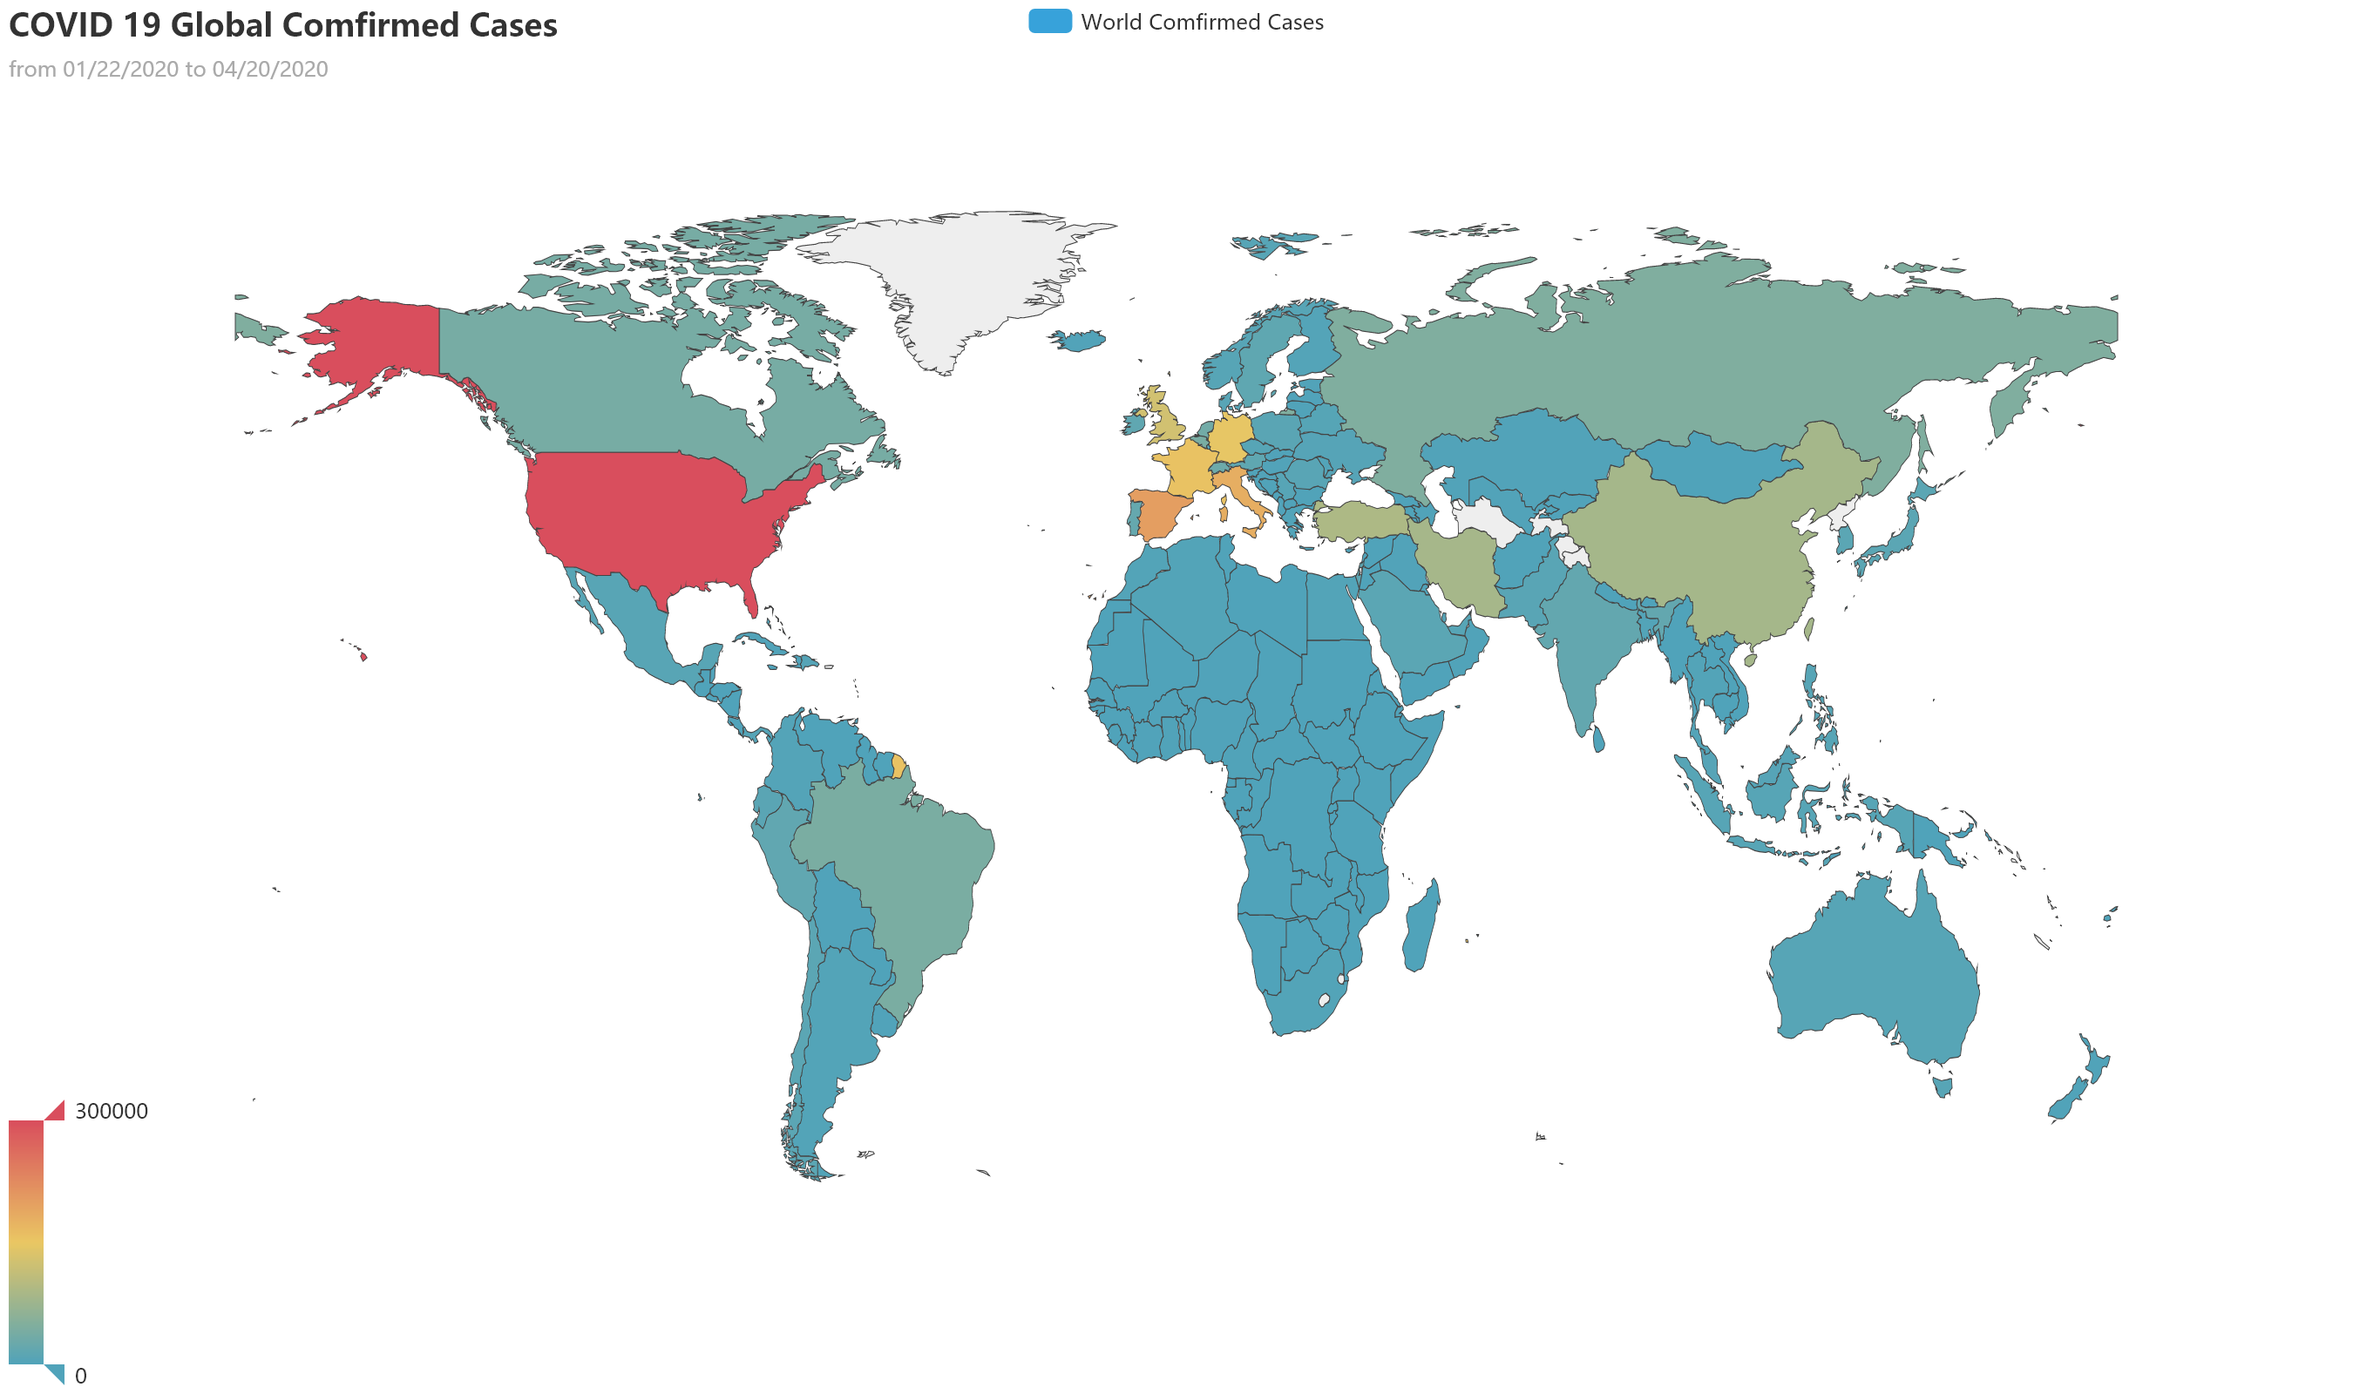
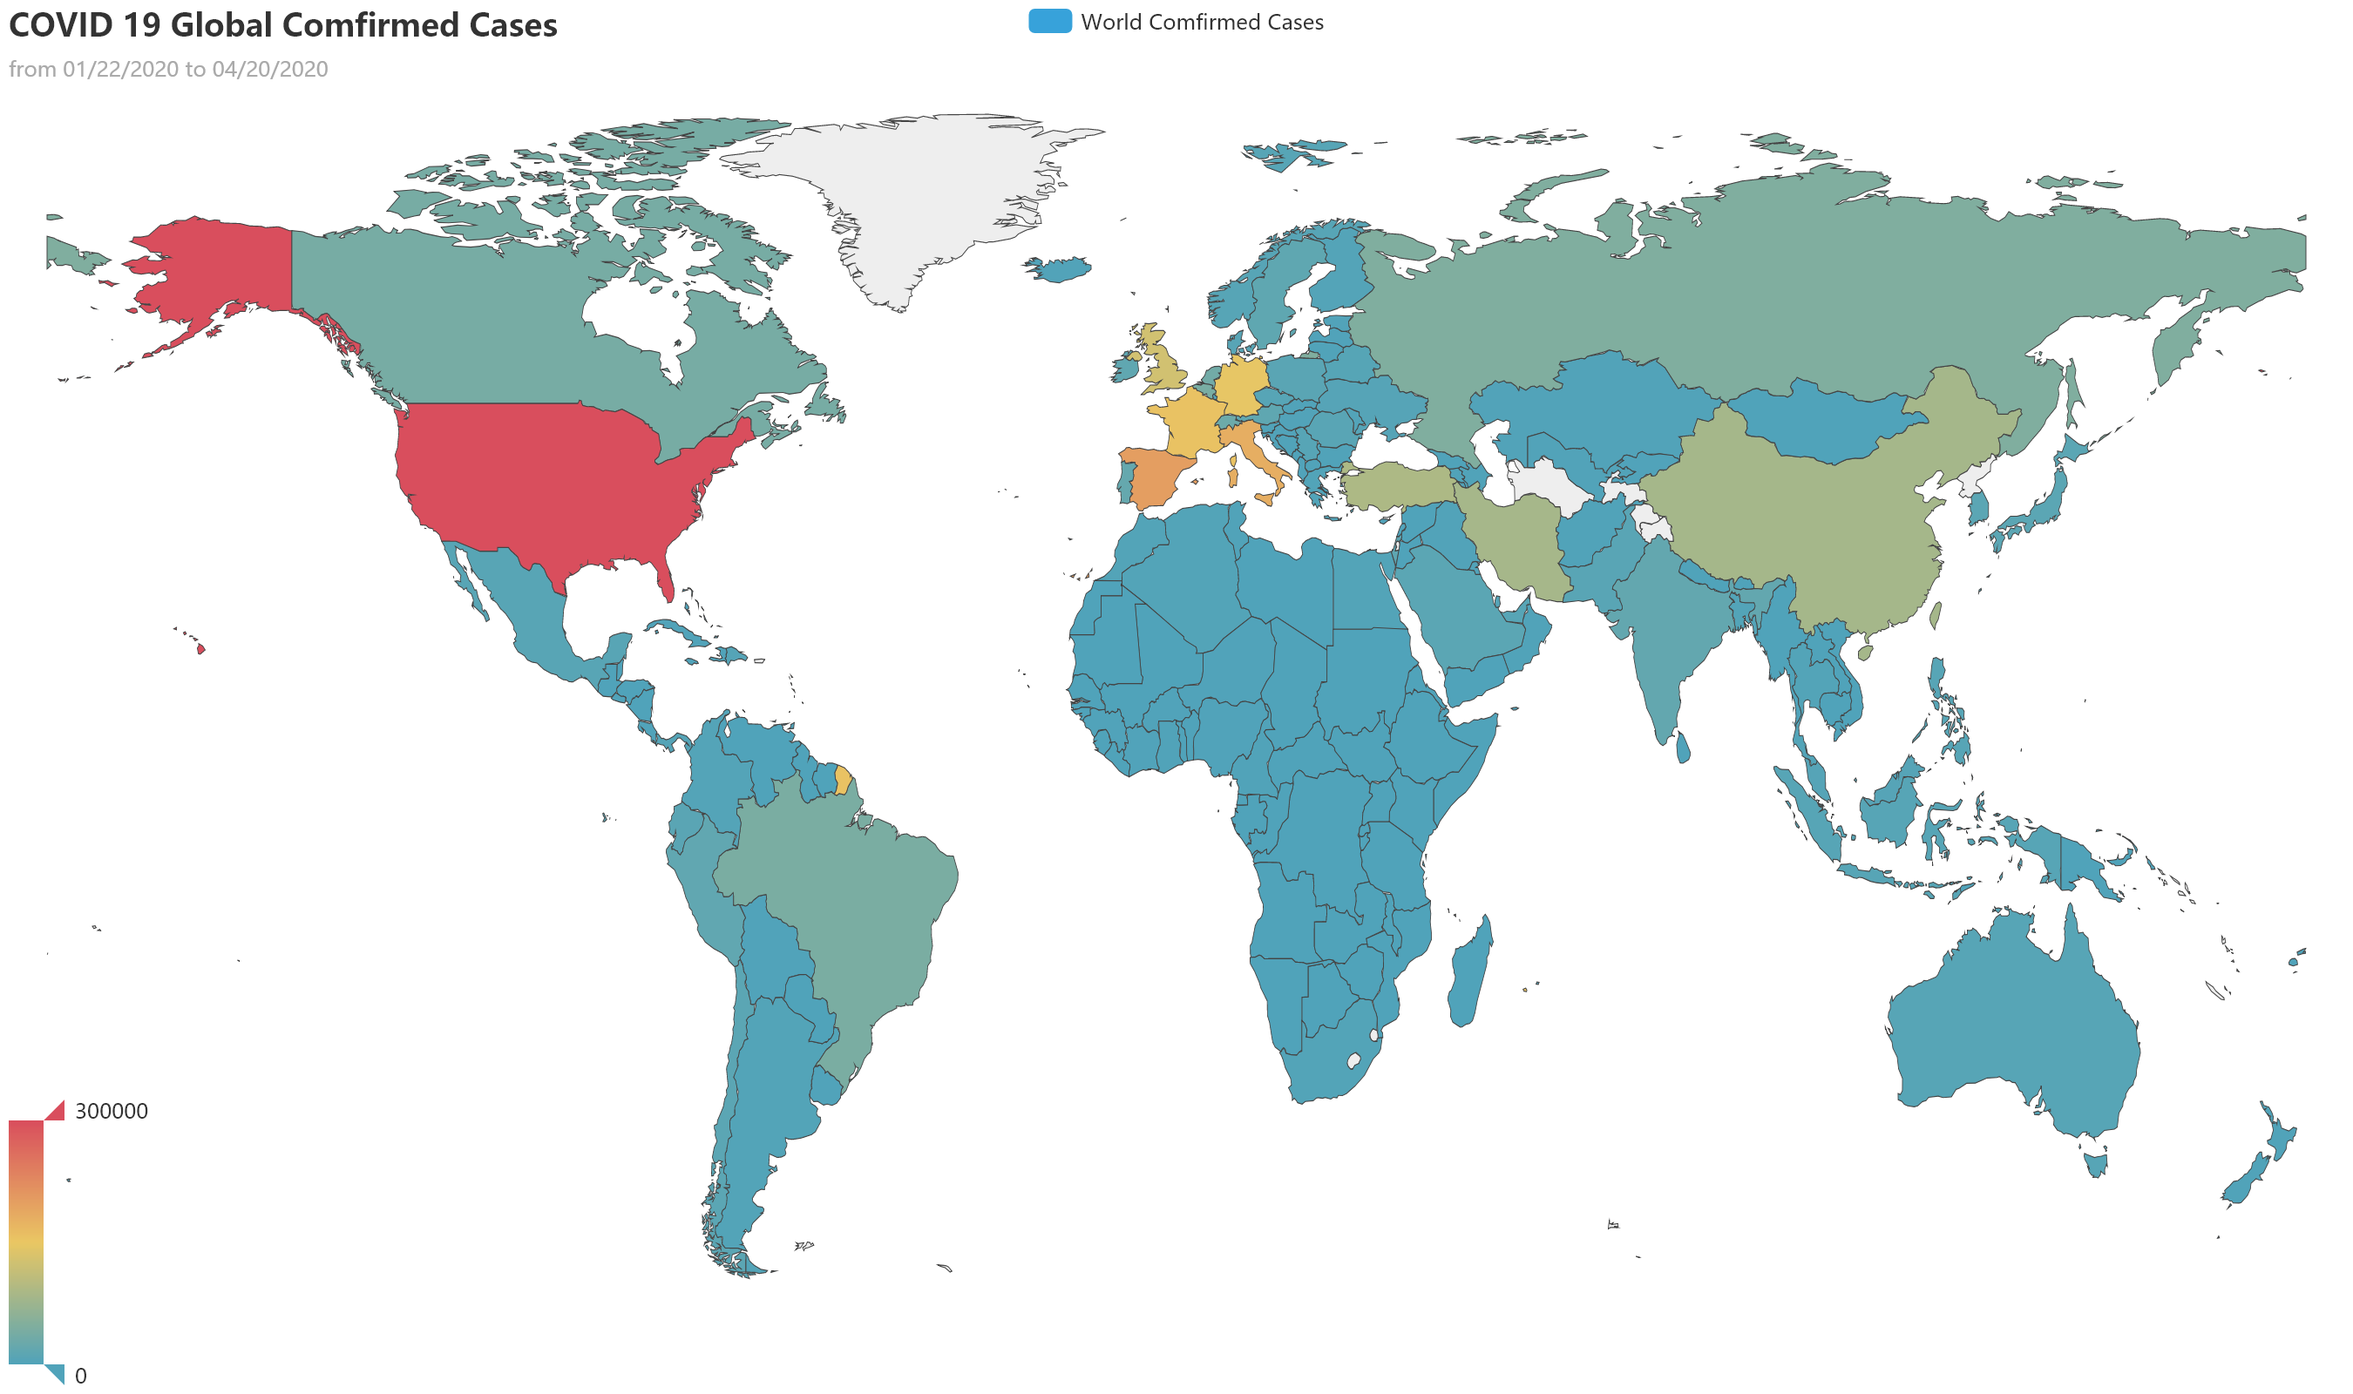
Updated Images

diff --git a/Images/COVID-19-global-Comfirmed-cases.html b/Images/COVID-19-global-Comfirmed-cases.html
@@ -8,11 +8,11 @@
 
 </head>
 <body>
-    <div id="d3db89f750de4b308ff196a113e8216c" class="chart-container" style="width:1350px; height:800px;"></div>
+    <div id="f17523b242b04cfebf04cb2e272e6518" class="chart-container" style="width:1350px; height:800px;"></div>
     <script>
-        var chart_d3db89f750de4b308ff196a113e8216c = echarts.init(
-            document.getElementById('d3db89f750de4b308ff196a113e8216c'), 'light', {renderer: 'canvas'});
-        var option_d3db89f750de4b308ff196a113e8216c = {
+        var chart_f17523b242b04cfebf04cb2e272e6518 = echarts.init(
+            document.getElementById('f17523b242b04cfebf04cb2e272e6518'), 'light', {renderer: 'canvas'});
+        var option_f17523b242b04cfebf04cb2e272e6518 = {
     "animation": true,
     "animationThreshold": 2000,
     "animationDuration": 1000,
@@ -782,7 +782,7 @@
                 }
             ],
             "roam": true,
-            "zoom": 1,
+            "zoom": 1.2,
             "showLegendSymbol": false,
             "emphasis": {},
             "rippleEffect": {
@@ -846,7 +846,7 @@
         "itemHeight": 140
     }
 };
-        chart_d3db89f750de4b308ff196a113e8216c.setOption(option_d3db89f750de4b308ff196a113e8216c);
+        chart_f17523b242b04cfebf04cb2e272e6518.setOption(option_f17523b242b04cfebf04cb2e272e6518);
     </script>
 </body>
 </html>

diff --git a/Images/COVID-19-global-Deaths-cases.html b/Images/COVID-19-global-Deaths-cases.html
@@ -8,11 +8,11 @@
 
 </head>
 <body>
-    <div id="dcbd9af174d3471f8e55a7df2b44d908" class="chart-container" style="width:1350px; height:800px;"></div>
+    <div id="a2e5ae604b264693971bddd763722878" class="chart-container" style="width:1350px; height:800px;"></div>
     <script>
-        var chart_dcbd9af174d3471f8e55a7df2b44d908 = echarts.init(
-            document.getElementById('dcbd9af174d3471f8e55a7df2b44d908'), 'light', {renderer: 'canvas'});
-        var option_dcbd9af174d3471f8e55a7df2b44d908 = {
+        var chart_a2e5ae604b264693971bddd763722878 = echarts.init(
+            document.getElementById('a2e5ae604b264693971bddd763722878'), 'light', {renderer: 'canvas'});
+        var option_a2e5ae604b264693971bddd763722878 = {
     "animation": true,
     "animationThreshold": 2000,
     "animationDuration": 1000,
@@ -782,7 +782,7 @@
                 }
             ],
             "roam": true,
-            "zoom": 1,
+            "zoom": 1.2,
             "showLegendSymbol": false,
             "emphasis": {},
             "rippleEffect": {
@@ -846,7 +846,7 @@
         "itemHeight": 140
     }
 };
-        chart_dcbd9af174d3471f8e55a7df2b44d908.setOption(option_dcbd9af174d3471f8e55a7df2b44d908);
+        chart_a2e5ae604b264693971bddd763722878.setOption(option_a2e5ae604b264693971bddd763722878);
     </script>
 </body>
 </html>

diff --git a/Images/COVID-19-global-Recovered-cases.html b/Images/COVID-19-global-Recovered-cases.html
@@ -8,11 +8,11 @@
 
 </head>
 <body>
-    <div id="d1a647ad162d4bf5a6ec3da5aad13c83" class="chart-container" style="width:1350px; height:800px;"></div>
+    <div id="6f3dbe8d2a4d46929a01635b8e3b1733" class="chart-container" style="width:1350px; height:800px;"></div>
     <script>
-        var chart_d1a647ad162d4bf5a6ec3da5aad13c83 = echarts.init(
-            document.getElementById('d1a647ad162d4bf5a6ec3da5aad13c83'), 'light', {renderer: 'canvas'});
-        var option_d1a647ad162d4bf5a6ec3da5aad13c83 = {
+        var chart_6f3dbe8d2a4d46929a01635b8e3b1733 = echarts.init(
+            document.getElementById('6f3dbe8d2a4d46929a01635b8e3b1733'), 'light', {renderer: 'canvas'});
+        var option_6f3dbe8d2a4d46929a01635b8e3b1733 = {
     "animation": true,
     "animationThreshold": 2000,
     "animationDuration": 1000,
@@ -782,7 +782,7 @@
                 }
             ],
             "roam": true,
-            "zoom": 1,
+            "zoom": 1.2,
             "showLegendSymbol": false,
             "emphasis": {},
             "rippleEffect": {
@@ -846,7 +846,7 @@
         "itemHeight": 140
     }
 };
-        chart_d1a647ad162d4bf5a6ec3da5aad13c83.setOption(option_d1a647ad162d4bf5a6ec3da5aad13c83);
+        chart_6f3dbe8d2a4d46929a01635b8e3b1733.setOption(option_6f3dbe8d2a4d46929a01635b8e3b1733);
     </script>
 </body>
 </html>

diff --git a/Images/Australia-trend.html b/Images/Australia-trend.html
@@ -7,11 +7,11 @@
 
 </head>
 <body>
-    <div id="745a1284d72a43858fd11b957d4bad6b" class="chart-container" style="width:1350px; height:800px;"></div>
+    <div id="7ddab3b2679946fcaa10d4ccdb0e0f01" class="chart-container" style="width:1350px; height:800px;"></div>
     <script>
-        var chart_745a1284d72a43858fd11b957d4bad6b = echarts.init(
-            document.getElementById('745a1284d72a43858fd11b957d4bad6b'), 'light', {renderer: 'canvas'});
-        var option_745a1284d72a43858fd11b957d4bad6b = {
+        var chart_7ddab3b2679946fcaa10d4ccdb0e0f01 = echarts.init(
+            document.getElementById('7ddab3b2679946fcaa10d4ccdb0e0f01'), 'light', {renderer: 'canvas'});
+        var option_7ddab3b2679946fcaa10d4ccdb0e0f01 = {
     "animation": true,
     "animationThreshold": 2000,
     "animationDuration": 1000,
@@ -2096,7 +2096,7 @@
         }
     ]
 };
-        chart_745a1284d72a43858fd11b957d4bad6b.setOption(option_745a1284d72a43858fd11b957d4bad6b);
+        chart_7ddab3b2679946fcaa10d4ccdb0e0f01.setOption(option_7ddab3b2679946fcaa10d4ccdb0e0f01);
     </script>
 </body>
 </html>

diff --git a/Images/France-trend.html b/Images/France-trend.html
@@ -7,11 +7,11 @@
 
 </head>
 <body>
-    <div id="752eac34aa6b4c138c85264dc69d06a0" class="chart-container" style="width:1350px; height:800px;"></div>
+    <div id="8981c98979e64dc18fe7e76a44498d65" class="chart-container" style="width:1350px; height:800px;"></div>
     <script>
-        var chart_752eac34aa6b4c138c85264dc69d06a0 = echarts.init(
-            document.getElementById('752eac34aa6b4c138c85264dc69d06a0'), 'light', {renderer: 'canvas'});
-        var option_752eac34aa6b4c138c85264dc69d06a0 = {
+        var chart_8981c98979e64dc18fe7e76a44498d65 = echarts.init(
+            document.getElementById('8981c98979e64dc18fe7e76a44498d65'), 'light', {renderer: 'canvas'});
+        var option_8981c98979e64dc18fe7e76a44498d65 = {
     "animation": true,
     "animationThreshold": 2000,
     "animationDuration": 1000,
@@ -2096,7 +2096,7 @@
         }
     ]
 };
-        chart_752eac34aa6b4c138c85264dc69d06a0.setOption(option_752eac34aa6b4c138c85264dc69d06a0);
+        chart_8981c98979e64dc18fe7e76a44498d65.setOption(option_8981c98979e64dc18fe7e76a44498d65);
     </script>
 </body>
 </html>

diff --git a/Images/Hong Kong-trend.html b/Images/Hong Kong-trend.html
@@ -7,11 +7,11 @@
 
 </head>
 <body>
-    <div id="9602d7a61f7343619405ebfb3b9055b9" class="chart-container" style="width:1350px; height:800px;"></div>
+    <div id="1da2b279419a4c9ba998371e2909ecf5" class="chart-container" style="width:1350px; height:800px;"></div>
     <script>
-        var chart_9602d7a61f7343619405ebfb3b9055b9 = echarts.init(
-            document.getElementById('9602d7a61f7343619405ebfb3b9055b9'), 'light', {renderer: 'canvas'});
-        var option_9602d7a61f7343619405ebfb3b9055b9 = {
+        var chart_1da2b279419a4c9ba998371e2909ecf5 = echarts.init(
+            document.getElementById('1da2b279419a4c9ba998371e2909ecf5'), 'light', {renderer: 'canvas'});
+        var option_1da2b279419a4c9ba998371e2909ecf5 = {
     "animation": true,
     "animationThreshold": 2000,
     "animationDuration": 1000,
@@ -2138,7 +2138,7 @@
         }
     ]
 };
-        chart_9602d7a61f7343619405ebfb3b9055b9.setOption(option_9602d7a61f7343619405ebfb3b9055b9);
+        chart_1da2b279419a4c9ba998371e2909ecf5.setOption(option_1da2b279419a4c9ba998371e2909ecf5);
     </script>
 </body>
 </html>

diff --git a/Images/India-trend.html b/Images/India-trend.html
@@ -7,11 +7,11 @@
 
 </head>
 <body>
-    <div id="a9ee309d1ccc4444be3a04eade90b23c" class="chart-container" style="width:1350px; height:800px;"></div>
+    <div id="6db703a93efe4e86b9a8d3c0b58d9d5b" class="chart-container" style="width:1350px; height:800px;"></div>
     <script>
-        var chart_a9ee309d1ccc4444be3a04eade90b23c = echarts.init(
-            document.getElementById('a9ee309d1ccc4444be3a04eade90b23c'), 'light', {renderer: 'canvas'});
-        var option_a9ee309d1ccc4444be3a04eade90b23c = {
+        var chart_6db703a93efe4e86b9a8d3c0b58d9d5b = echarts.init(
+            document.getElementById('6db703a93efe4e86b9a8d3c0b58d9d5b'), 'light', {renderer: 'canvas'});
+        var option_6db703a93efe4e86b9a8d3c0b58d9d5b = {
     "animation": true,
     "animationThreshold": 2000,
     "animationDuration": 1000,
@@ -1970,7 +1970,7 @@
         }
     ]
 };
-        chart_a9ee309d1ccc4444be3a04eade90b23c.setOption(option_a9ee309d1ccc4444be3a04eade90b23c);
+        chart_6db703a93efe4e86b9a8d3c0b58d9d5b.setOption(option_6db703a93efe4e86b9a8d3c0b58d9d5b);
     </script>
 </body>
 </html>

diff --git a/Images/Italy-trend.html b/Images/Italy-trend.html
@@ -7,11 +7,11 @@
 
 </head>
 <body>
-    <div id="dc9937cc31124b349dd2ec824e8ee485" class="chart-container" style="width:1350px; height:800px;"></div>
+    <div id="ede718bfc6674fc3b7dfd5a16d08d330" class="chart-container" style="width:1350px; height:800px;"></div>
     <script>
-        var chart_dc9937cc31124b349dd2ec824e8ee485 = echarts.init(
-            document.getElementById('dc9937cc31124b349dd2ec824e8ee485'), 'light', {renderer: 'canvas'});
-        var option_dc9937cc31124b349dd2ec824e8ee485 = {
+        var chart_ede718bfc6674fc3b7dfd5a16d08d330 = echarts.init(
+            document.getElementById('ede718bfc6674fc3b7dfd5a16d08d330'), 'light', {renderer: 'canvas'});
+        var option_ede718bfc6674fc3b7dfd5a16d08d330 = {
     "animation": true,
     "animationThreshold": 2000,
     "animationDuration": 1000,
@@ -1949,7 +1949,7 @@
         }
     ]
 };
-        chart_dc9937cc31124b349dd2ec824e8ee485.setOption(option_dc9937cc31124b349dd2ec824e8ee485);
+        chart_ede718bfc6674fc3b7dfd5a16d08d330.setOption(option_ede718bfc6674fc3b7dfd5a16d08d330);
     </script>
 </body>
 </html>

diff --git a/Images/Japan-trend.html b/Images/Japan-trend.html
@@ -7,11 +7,11 @@
 
 </head>
 <body>
-    <div id="374ad31cae5a4323a5fe0877ad2a932b" class="chart-container" style="width:1350px; height:800px;"></div>
+    <div id="41d4ec6714454db083f1739b740e5a5c" class="chart-container" style="width:1350px; height:800px;"></div>
     <script>
-        var chart_374ad31cae5a4323a5fe0877ad2a932b = echarts.init(
-            document.getElementById('374ad31cae5a4323a5fe0877ad2a932b'), 'light', {renderer: 'canvas'});
-        var option_374ad31cae5a4323a5fe0877ad2a932b = {
+        var chart_41d4ec6714454db083f1739b740e5a5c = echarts.init(
+            document.getElementById('41d4ec6714454db083f1739b740e5a5c'), 'light', {renderer: 'canvas'});
+        var option_41d4ec6714454db083f1739b740e5a5c = {
     "animation": true,
     "animationThreshold": 2000,
     "animationDuration": 1000,
@@ -2138,7 +2138,7 @@
         }
     ]
 };
-        chart_374ad31cae5a4323a5fe0877ad2a932b.setOption(option_374ad31cae5a4323a5fe0877ad2a932b);
+        chart_41d4ec6714454db083f1739b740e5a5c.setOption(option_41d4ec6714454db083f1739b740e5a5c);
     </script>
 </body>
 </html>

diff --git a/Images/Mainland China-trend.html b/Images/Mainland China-trend.html
@@ -7,11 +7,11 @@
 
 </head>
 <body>
-    <div id="83fc069da19b4b0fb9f378945469721e" class="chart-container" style="width:1350px; height:800px;"></div>
+    <div id="2f599f40115f48e8874408ad769ae028" class="chart-container" style="width:1350px; height:800px;"></div>
     <script>
-        var chart_83fc069da19b4b0fb9f378945469721e = echarts.init(
-            document.getElementById('83fc069da19b4b0fb9f378945469721e'), 'light', {renderer: 'canvas'});
-        var option_83fc069da19b4b0fb9f378945469721e = {
+        var chart_2f599f40115f48e8874408ad769ae028 = echarts.init(
+            document.getElementById('2f599f40115f48e8874408ad769ae028'), 'light', {renderer: 'canvas'});
+        var option_2f599f40115f48e8874408ad769ae028 = {
     "animation": true,
     "animationThreshold": 2000,
     "animationDuration": 1000,
@@ -2138,7 +2138,7 @@
         }
     ]
 };
-        chart_83fc069da19b4b0fb9f378945469721e.setOption(option_83fc069da19b4b0fb9f378945469721e);
+        chart_2f599f40115f48e8874408ad769ae028.setOption(option_2f599f40115f48e8874408ad769ae028);
     </script>
 </body>
 </html>

diff --git a/Images/Singapore-trend.html b/Images/Singapore-trend.html
@@ -7,11 +7,11 @@
 
 </head>
 <body>
-    <div id="40e66e2cca2c483692d367306d755838" class="chart-container" style="width:1350px; height:800px;"></div>
+    <div id="10294dbe1be14093b74cc87d6bbf9143" class="chart-container" style="width:1350px; height:800px;"></div>
     <script>
-        var chart_40e66e2cca2c483692d367306d755838 = echarts.init(
-            document.getElementById('40e66e2cca2c483692d367306d755838'), 'light', {renderer: 'canvas'});
-        var option_40e66e2cca2c483692d367306d755838 = {
+        var chart_10294dbe1be14093b74cc87d6bbf9143 = echarts.init(
+            document.getElementById('10294dbe1be14093b74cc87d6bbf9143'), 'light', {renderer: 'canvas'});
+        var option_10294dbe1be14093b74cc87d6bbf9143 = {
     "animation": true,
     "animationThreshold": 2000,
     "animationDuration": 1000,
@@ -2117,7 +2117,7 @@
         }
     ]
 };
-        chart_40e66e2cca2c483692d367306d755838.setOption(option_40e66e2cca2c483692d367306d755838);
+        chart_10294dbe1be14093b74cc87d6bbf9143.setOption(option_10294dbe1be14093b74cc87d6bbf9143);
     </script>
 </body>
 </html>

diff --git a/Images/South Korea-trend.html b/Images/South Korea-trend.html
@@ -7,11 +7,11 @@
 
 </head>
 <body>
-    <div id="ec4857d1f5b344daa9faa6b407e41225" class="chart-container" style="width:1350px; height:800px;"></div>
+    <div id="3bade7cef5b14fd8a58fdef4d17d9981" class="chart-container" style="width:1350px; height:800px;"></div>
     <script>
-        var chart_ec4857d1f5b344daa9faa6b407e41225 = echarts.init(
-            document.getElementById('ec4857d1f5b344daa9faa6b407e41225'), 'light', {renderer: 'canvas'});
-        var option_ec4857d1f5b344daa9faa6b407e41225 = {
+        var chart_3bade7cef5b14fd8a58fdef4d17d9981 = echarts.init(
+            document.getElementById('3bade7cef5b14fd8a58fdef4d17d9981'), 'light', {renderer: 'canvas'});
+        var option_3bade7cef5b14fd8a58fdef4d17d9981 = {
     "animation": true,
     "animationThreshold": 2000,
     "animationDuration": 1000,
@@ -2138,7 +2138,7 @@
         }
     ]
 };
-        chart_ec4857d1f5b344daa9faa6b407e41225.setOption(option_ec4857d1f5b344daa9faa6b407e41225);
+        chart_3bade7cef5b14fd8a58fdef4d17d9981.setOption(option_3bade7cef5b14fd8a58fdef4d17d9981);
     </script>
 </body>
 </html>
